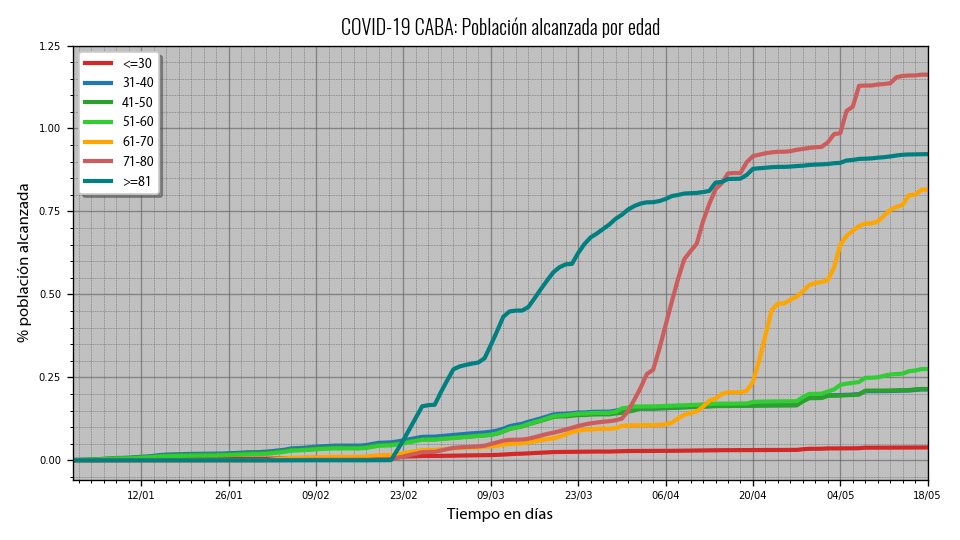
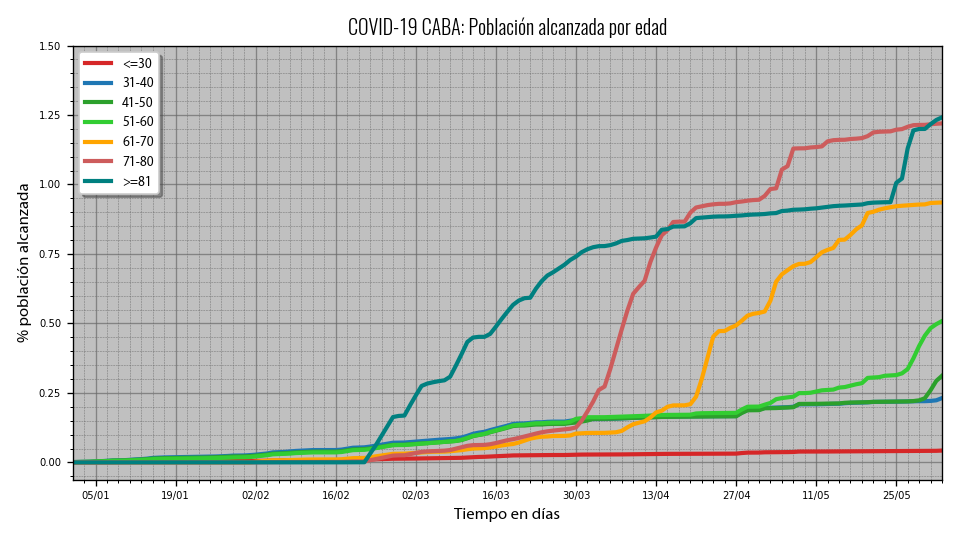
Updating charts...

Changed region(s): [[0.0312, 0.0296, 1.0, 0.9778], [0.0312, 0.3259, 0.0625, 0.3556], [0.0312, 0.2074, 0.0625, 0.237]]

diff --git a/p_trigger.py b/p_trigger.py
@@ -14,9 +14,8 @@ ecalls.plot_calls_ratios_avg(0, 0.05,1)
 ecalls.plot_total_calls_avg()
 
 #Building vaccination champaign charts
-vac.plot_total_vac_by_sex(0, 100000, 1000)
-vac.plot_total_vac_by_dose(0, 100000, 1000)
-vac.plot_doses_by_age(0, 3000, 1000)
+vac.plot_total_vac_by_sex(0, 150000, 1000)
+vac.plot_total_vac_by_dose(0, 150000, 1000)
 vac.plot_doses_by_age_avg(0, 3000, 1000)
 vac.plot_doses_by_vac_avg(0, 2000, 1000)
 vac.plot_reached_population_by_age(0, 0.25, 1)

diff --git a/chart_config.py b/chart_config.py
@@ -26,7 +26,7 @@ language = 1 #0 = english, 1 = spanish
 legend_text_size = 8
 plot_scale = "linear"
 start_date = "2020-11-01"
-end_date = "2021-05-18"
+end_date = "2021-06-02"
 week_interval = 3
 v_start_date = "2021-01-01"
 v_week_interval = 2
